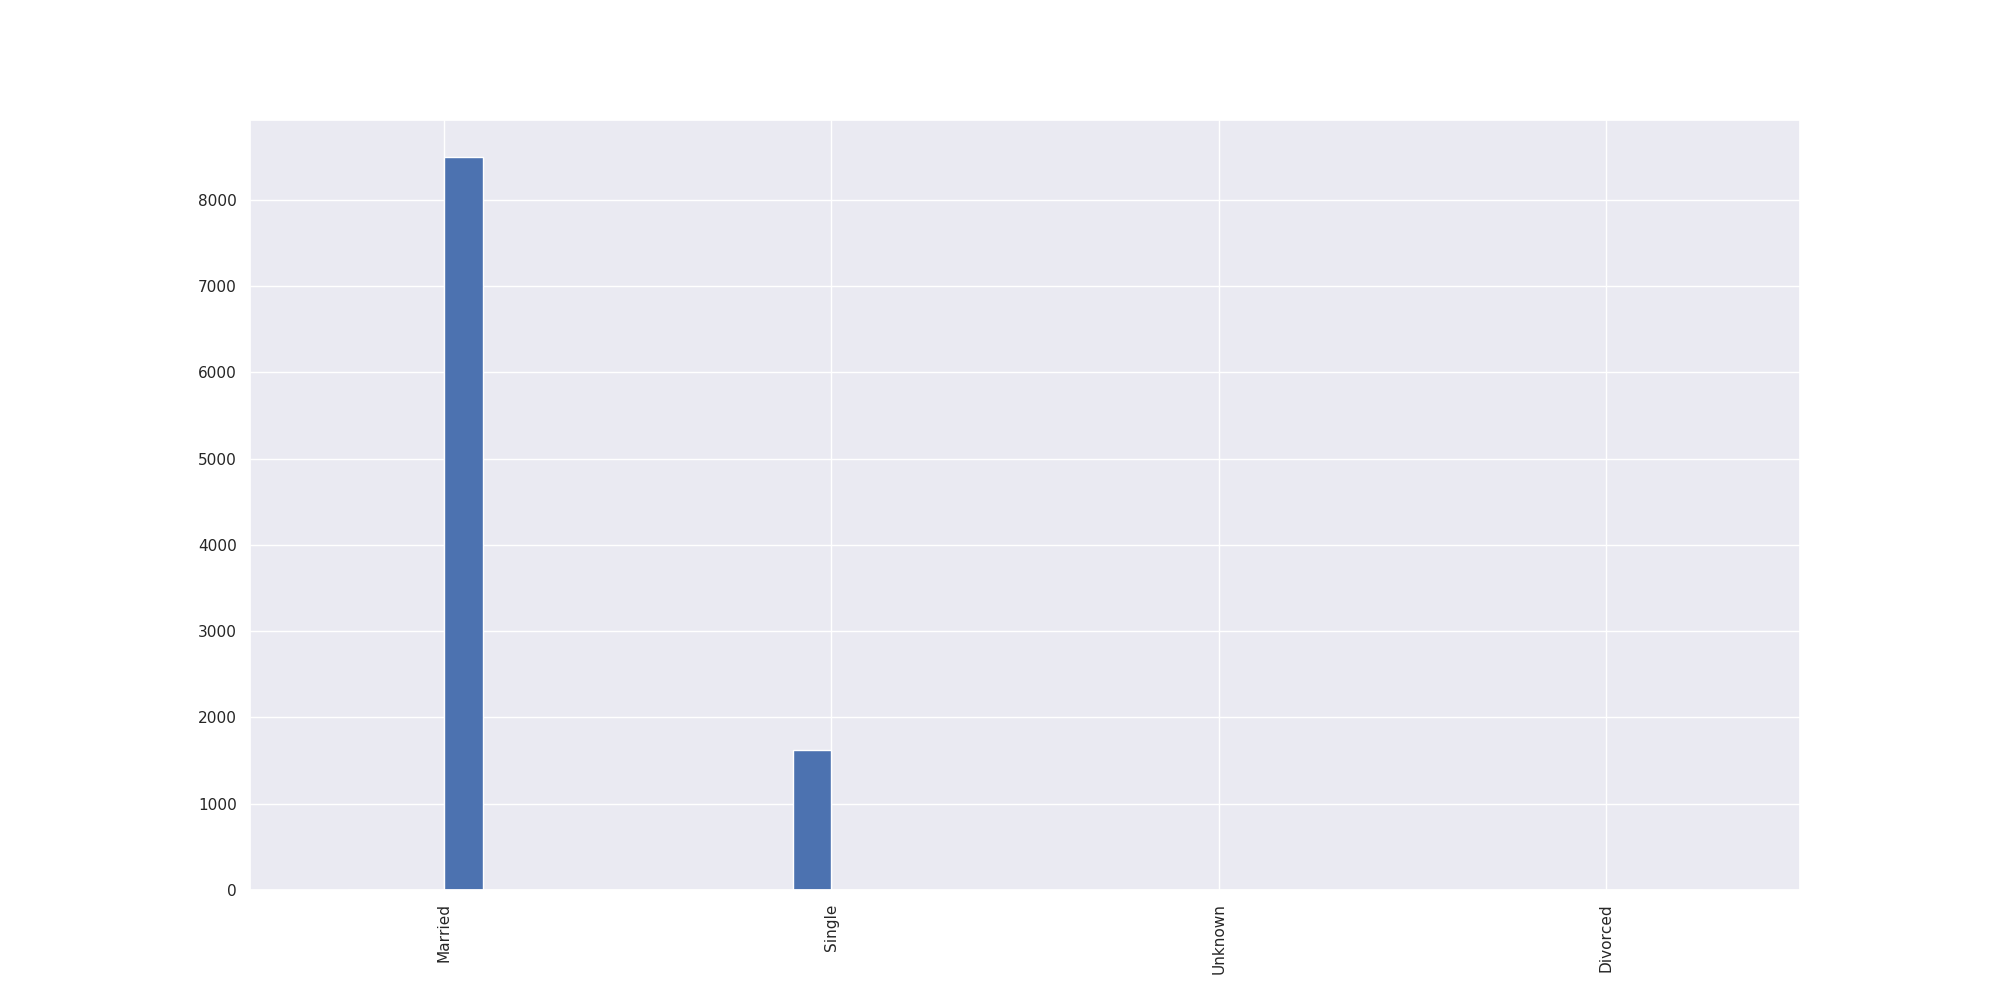
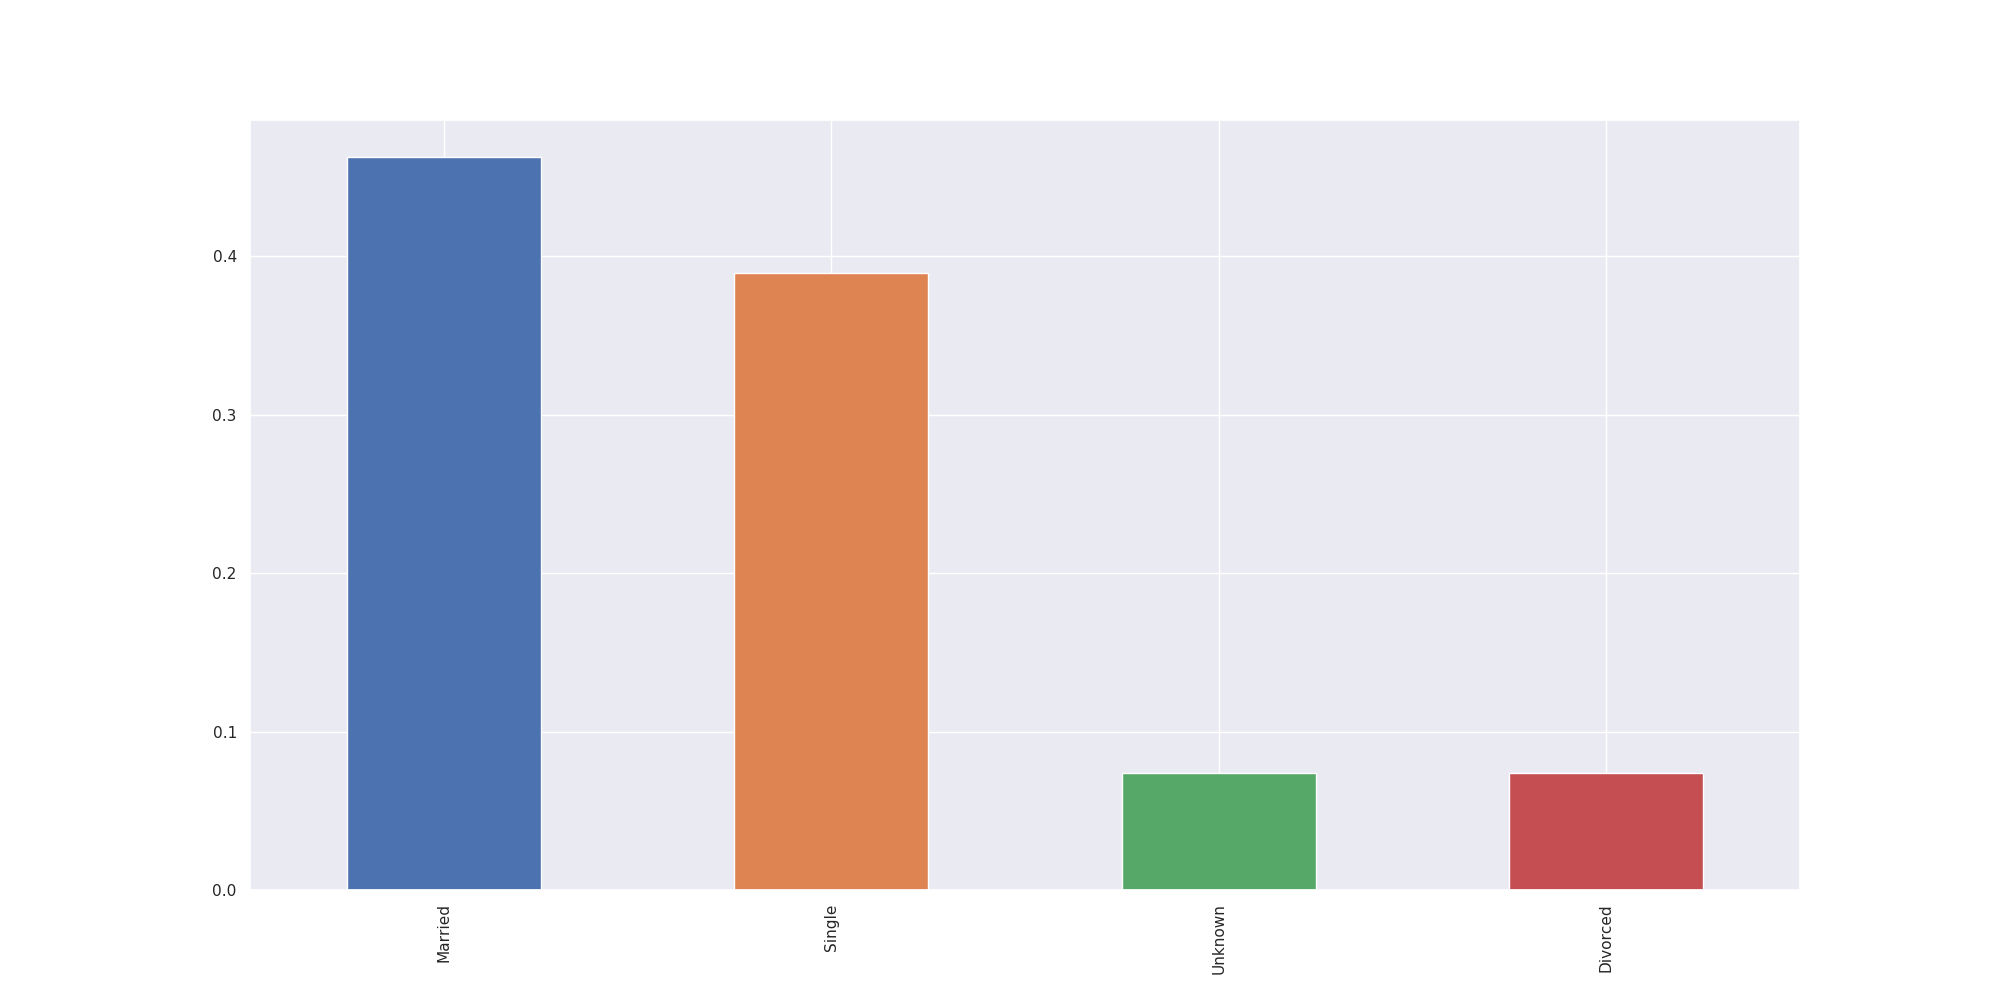
Update codes to fix the graph overwritten issue and include new graphs
Fixed codes in churn_library.py by reset plt.close() in each graph to fix the graphs overwritten issues in graph/eda and graph/results

diff --git a/churn_library.py b/churn_library.py
@@ -39,6 +39,7 @@ logging.basicConfig(
 
 #logger = setup_logger('lib_logger', './logs/churn_library.log')
 
+
 def import_data(path):
     '''
     returns dataframe for the csv found at path
@@ -73,32 +74,39 @@ def perform_eda(eda_df):
     eda_df['Churn'] = eda_df['Attrition_Flag'].apply(
         lambda val: 0 if val == "Existing Customer" else 1)
 
-    plt.figure(figsize=(20, 10))
-
     # Churn Histogram
+    plt.figure(figsize=(20, 10))
     churn_hist = eda_df['Churn'].hist()
     logging.info("Save image: churn_hist.png")
     churn_hist.figure.savefig('./images/eda/churn_hist.png')
+    plt.close()  # need to close plt so the graph not overwrite
 
     # Customer Age Histogram
+    plt.figure(figsize=(20, 10))
     customer_age_hist = eda_df['Customer_Age'].hist()
     logging.info("Save image: customer_age_hist.png")
     customer_age_hist.figure.savefig('./images/eda/customer_age_hist.png')
+    plt.close()  # need to close plt so the graph not overwrite
 
     # Marital Status Histogram
+    plt.figure(figsize=(20, 10))
     marital_status_hist = eda_df.Marital_Status.value_counts(
         'normalize').plot(kind='bar')
     logging.info("Save image: marital_status_hist.png")
     marital_status_hist.figure.savefig('./images/eda/marital_status_hist.png')
+    plt.close()  # need to close plt so marital_status graph not overwrite
 
     # Total Transaction Histogram
+    plt.figure(figsize=(20, 10))  # need to reset the graph
     total_transaction_hist = sns.histplot(
         eda_df['Total_Trans_Ct'], stat='density', kde=True)
     logging.info("Save image: total_transaction_hist.png")
     total_transaction_hist.figure.savefig(
         './images/eda/total_transaction_hist.png')
+    plt.close()  # need to close plt so the graph not overwrite
 
     # Heatmap
+    plt.figure(figsize=(20, 10))  # need to reset the graph
     heatmap = sns.heatmap(
         eda_df.corr(),
         annot=False,
@@ -106,7 +114,6 @@ def perform_eda(eda_df):
         linewidths=2)
     logging.info("Save image: heatmap.png")
     heatmap.figure.savefig('./images/eda/heatmap.png')
-
     plt.close()
 
 
@@ -356,7 +363,9 @@ def feature_importance_plot(rfc_model, x_data):
     # Add feature names as x-axis labels
     plt.xticks(range(x_data.shape[1]), names, rotation=90)
     logging.info("Save image: rfc_feature_importance.png")
-    plt.savefig("./images/results/rfc_feature_importance.png")
+    plt.savefig(
+        "./images/results/rfc_feature_importance.png",
+        bbox_inches='tight')
     plt.close()
 
 

diff --git a/churn_script_logging_and_tests.py b/churn_script_logging_and_tests.py
@@ -12,7 +12,6 @@ import os
 import logging
 import pandas as pd
 import churn_library as cls
-#from utils import setup_logger
 
 logging.basicConfig(
     filename='./logs/test_churn_library.log',
@@ -20,10 +19,7 @@ logging.basicConfig(
     filemode='w',
     format='%(name)s - %(levelname)s - %(message)s')
 
-#logger = setup_logger('test_logger', './logs/churn_library.log')
 
-
-# def test_import(import_data):
 def test_import():
     '''
     test data import - this example is completed for you to assist
@@ -44,8 +40,6 @@ with the other test functions
         logging.error(
             "Testing import_data: The file doesn't appear to have rows and columns")
         raise error
-
-# def test_eda(perform_eda):
 
 
 def test_eda():
@@ -74,8 +68,6 @@ def test_eda():
         logging.error(
             "Testing perform_eda: at least one of the image files does not save.")
         raise error
-
-# def test_encoder_helper(encoder_helper):
 
 
 def test_encoder_helper():
@@ -110,8 +102,6 @@ def test_encoder_helper():
             not match with the length of cat_columns")
         raise error
 
-# def test_perform_feature_engineering(perform_feature_engineering):
-
 
 def test_perform_feature_engineering():
     '''
@@ -144,7 +134,6 @@ def test_perform_feature_engineering():
         raise error
 
 
-# def test_train_and_store_models(train_and_store_models):
 def test_train_and_store_models():
     '''
     test train_and_store_models
